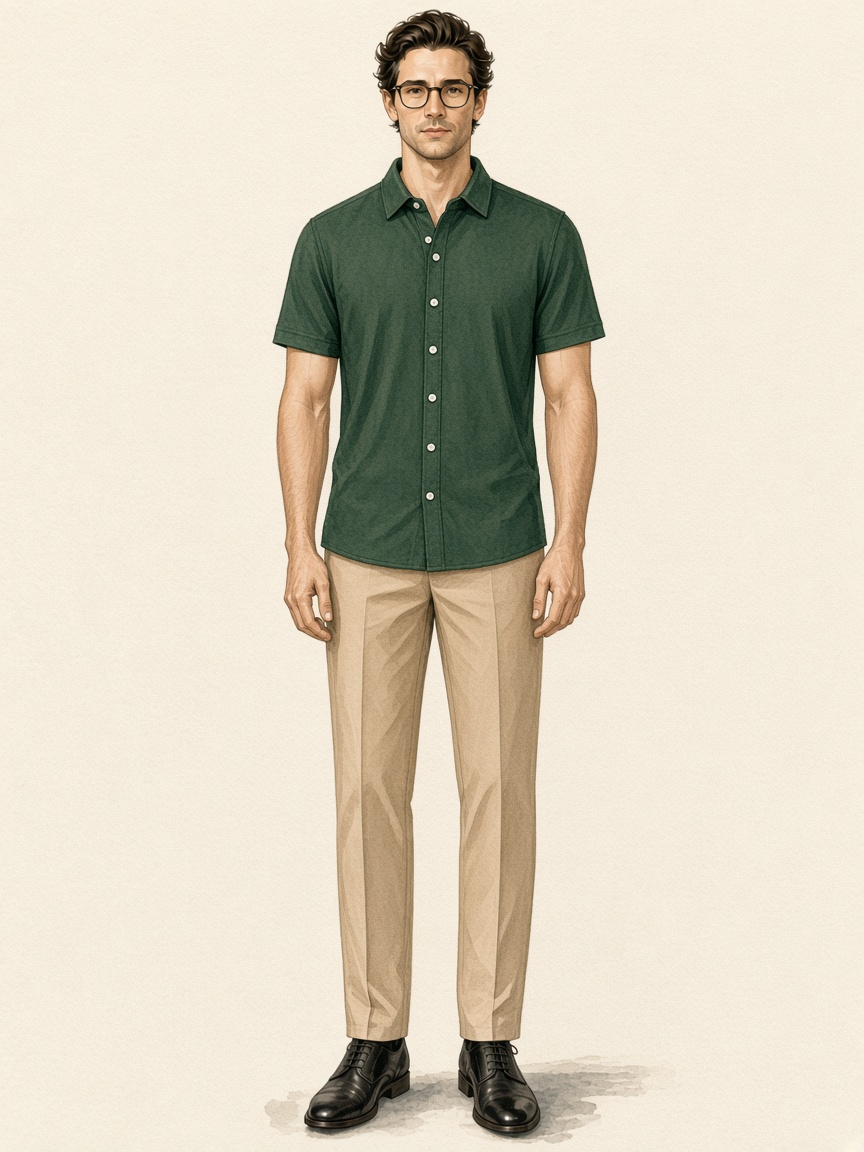
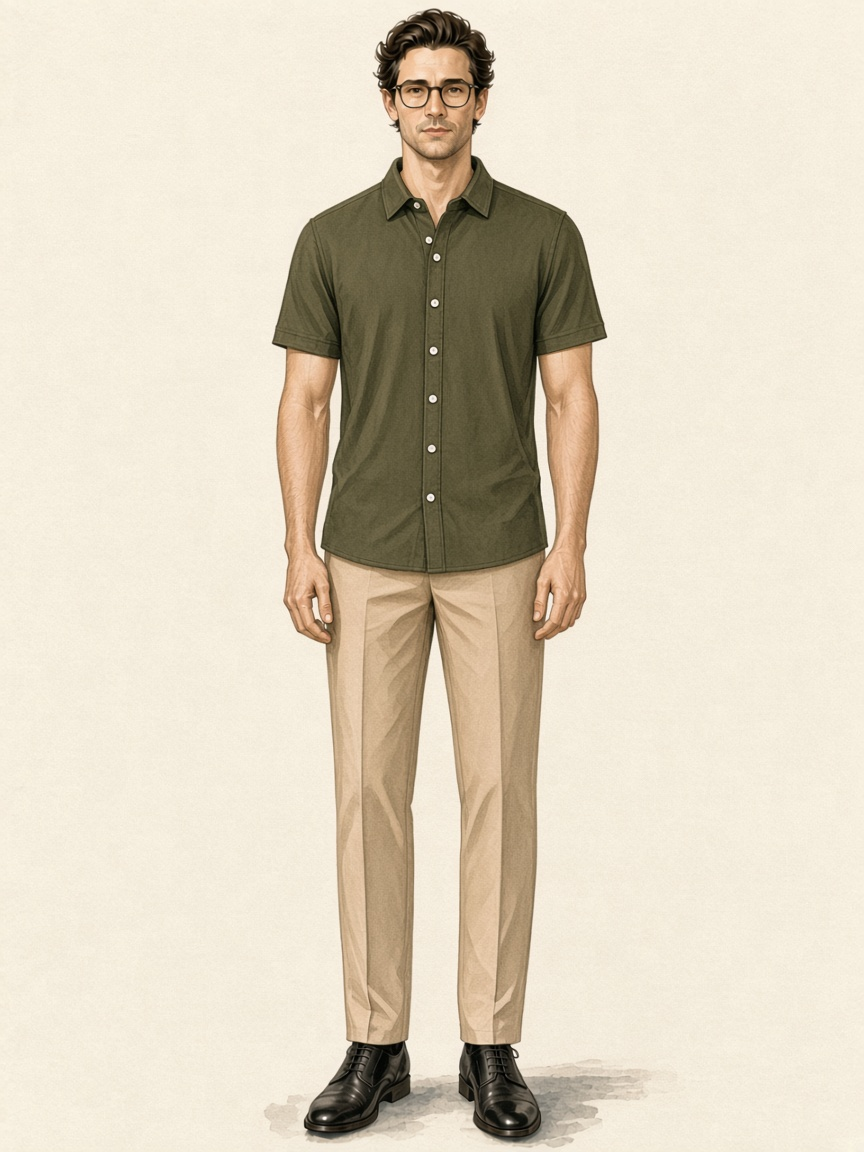
Recolor the success notice green and match attire samples to the palette.
Use a formal thank-you after an RSVP, and give each formal and semi-formal sample its own shade of green.

diff --git a/index.html b/index.html
@@ -16,7 +16,7 @@
   <link href="https://fonts.googleapis.com/css2?family=Allura&family=Cormorant+Garamond:ital,wght@0,400;0,500;0,600;1,400;1,500&family=Great+Vibes&family=Outfit:wght@300;400;500&family=IBM+Plex+Mono:wght@400&display=swap" rel="stylesheet" />
 
   <link rel="icon" href="assets/favicon.svg" type="image/svg+xml" />
-  <link rel="stylesheet" href="css/styles.css?v=117" />
+  <link rel="stylesheet" href="css/styles.css?v=118" />
   <script src="js/boot.js?v=2"></script>
 </head>
 <body>
@@ -276,20 +276,20 @@
             <div class="attire-samples">
               <div class="attire-models attire-models--do">
                 <figure class="attire-model">
-                  <img src="assets/attire/do-semiformal-women.jpg?v=2" alt="Woman in a high-neck midi dress with three-quarter sleeves and closed shoes" width="768" height="1024" loading="lazy" />
-                  <figcaption><strong>Formal · Women</strong> Midi dress with sleeves, a modest neckline, and closed shoes</figcaption>
+                  <img src="assets/attire/do-semiformal-women.jpg?v=3" alt="Woman in a forest green high-neck midi dress with three-quarter sleeves and closed shoes" width="768" height="1024" loading="lazy" />
+                  <figcaption><strong>Formal · Women</strong> Forest green midi dress with sleeves, a modest neckline, and closed shoes</figcaption>
                 </figure>
                 <figure class="attire-model">
-                  <img src="assets/attire/do-semiformal-men.jpg?v=4" alt="Man in a green long-sleeve button-front polo, dark slacks, and brown leather shoes" width="768" height="1024" loading="lazy" />
-                  <figcaption><strong>Formal · Men</strong> Green long-sleeve button-front polo, slacks, and leather shoes</figcaption>
+                  <img src="assets/attire/do-semiformal-men.jpg?v=5" alt="Man in a hunter green long-sleeve button-front polo, dark slacks, and brown leather shoes" width="768" height="1024" loading="lazy" />
+                  <figcaption><strong>Formal · Men</strong> Hunter green long-sleeve button-front polo, slacks, and leather shoes</figcaption>
                 </figure>
                 <figure class="attire-model">
-                  <img src="assets/attire/do-formal-women.jpg?v=4" alt="Woman in a short-sleeved knee-length dress and nude closed shoes" width="768" height="1024" loading="lazy" />
-                  <figcaption><strong>Semi-formal · Women</strong> A simple knee-length dress with short sleeves, a modest neckline, and closed shoes</figcaption>
+                  <img src="assets/attire/do-formal-women.jpg?v=5" alt="Woman in an olive green short-sleeved knee-length dress and nude closed shoes" width="768" height="1024" loading="lazy" />
+                  <figcaption><strong>Semi-formal · Women</strong> Olive green knee-length dress with short sleeves, a modest neckline, and closed shoes</figcaption>
                 </figure>
                 <figure class="attire-model">
-                  <img src="assets/attire/do-formal-men.jpg?v=5" alt="Man in a green short-sleeve button-front polo, beige pants, black shoes, and eyeglasses" width="768" height="1024" loading="lazy" />
-                  <figcaption><strong>Semi-formal · Men</strong> Green button-front polo, beige pants, and black shoes</figcaption>
+                  <img src="assets/attire/do-formal-men.jpg?v=6" alt="Man in an olive green short-sleeve button-front polo, beige pants, black shoes, and eyeglasses" width="768" height="1024" loading="lazy" />
+                  <figcaption><strong>Semi-formal · Men</strong> Olive green button-front polo, beige pants, and black shoes</figcaption>
                 </figure>
               </div>
             </div>
@@ -934,6 +934,6 @@
 
   <script src="js/config.js?v=6"></script>
   <script src="js/main.js?v=35"></script>
-  <script src="js/rsvp.js?v=48"></script>
+  <script src="js/rsvp.js?v=49"></script>
 </body>
 </html>

diff --git a/css/styles.css b/css/styles.css
@@ -2967,14 +2967,14 @@ html:not(.proposals-unlocked) .site-nav.is-open a[data-nav-proposals] {
 }
 
 .form-status.is-success {
-  color: #5c4a12;
-  border-color: #e4c15a;
-  background: #fff3c4;
-  box-shadow: 0 14px 36px rgba(36, 48, 58, 0.16);
+  color: #1b3022;
+  border-color: #2e5135;
+  background: #eef6f0;
+  box-shadow: 0 14px 36px rgba(27, 48, 34, 0.12);
 }
 
 .form-status.is-success .form-status__bar > span {
-  background: #e4c15a;
+  background: #2e5135;
 }
 
 .form-status.is-flash {
@@ -2985,25 +2985,25 @@ html:not(.proposals-unlocked) .site-nav.is-open a[data-nav-proposals] {
   0% {
     transform: scale(1);
     box-shadow:
-      0 0 0 1px rgba(255, 220, 100, 0.55),
-      0 0 12px rgba(255, 200, 40, 0.4),
-      0 0 24px rgba(255, 190, 30, 0.18);
+      0 0 0 1px rgba(46, 81, 53, 0.45),
+      0 0 12px rgba(46, 81, 53, 0.28),
+      0 0 24px rgba(27, 48, 34, 0.14);
   }
   40% {
     transform: scale(1.015);
     box-shadow:
-      0 0 0 2px rgba(255, 214, 80, 0.75),
-      0 0 22px rgba(255, 200, 40, 0.7),
-      0 0 44px rgba(255, 190, 30, 0.4),
-      0 10px 22px rgba(92, 74, 18, 0.12);
+      0 0 0 2px rgba(46, 81, 53, 0.6),
+      0 0 22px rgba(46, 81, 53, 0.45),
+      0 0 44px rgba(27, 48, 34, 0.22),
+      0 10px 22px rgba(27, 48, 34, 0.12);
   }
   100% {
     transform: scale(1);
     box-shadow:
-      0 0 0 1px rgba(255, 220, 100, 0.55),
-      0 0 18px rgba(255, 200, 40, 0.55),
-      0 0 36px rgba(255, 190, 30, 0.28),
-      0 10px 22px rgba(92, 74, 18, 0.1);
+      0 0 0 1px rgba(46, 81, 53, 0.45),
+      0 0 18px rgba(46, 81, 53, 0.35),
+      0 0 36px rgba(27, 48, 34, 0.18),
+      0 10px 22px rgba(27, 48, 34, 0.1);
   }
 }
 

diff --git a/js/rsvp.js b/js/rsvp.js
@@ -1087,7 +1087,7 @@
 
     // Honeypot
     if (form.website && form.website.value.trim() !== "") {
-      setStatus("Thanks — your RSVP was received.", "success");
+      setStatus("Thank you. We have received your RSVP.", "success");
       editMode = false;
       if (editToggle) editToggle.checked = false;
       resetEditState(false);
@@ -1146,8 +1146,8 @@
       hideLoading();
       setStatus(
         editMode
-          ? "Thank you — your RSVP has been updated."
-          : "Thank you — your RSVP is on its way to us.",
+          ? "Thank you. Your RSVP has been updated."
+          : "Thank you. We have received your RSVP.",
         "success"
       );
       editMode = false;
